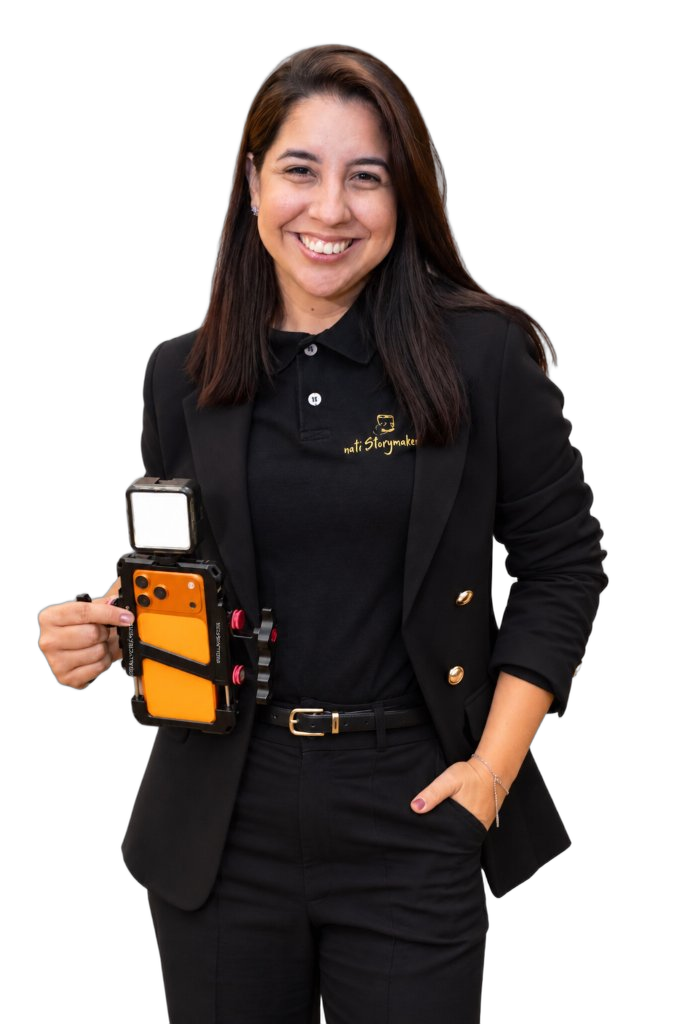
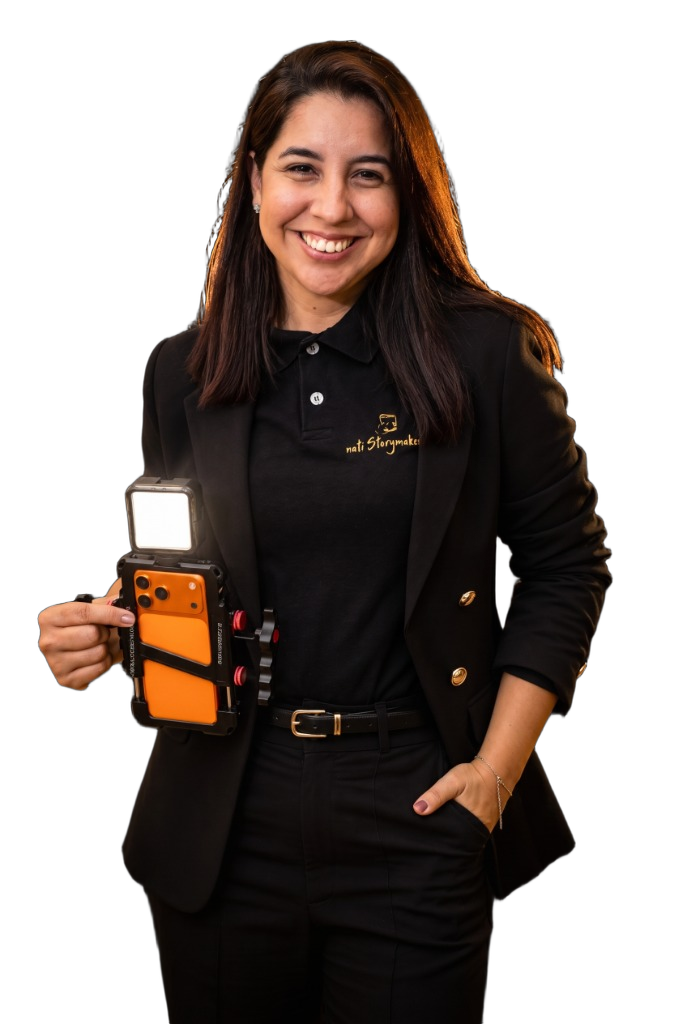
fix: aplica nova foto com fundo transparente no Hero 'CONTEÚDO EM TEMPO REAL' e suaviza brilho

diff --git a/index.html b/index.html
@@ -65,7 +65,7 @@
 		}
 
 		/* ==========================================================================
-		   CANVAS DE BRILHOS E PARTÍCULAS DOURADAS
+		   CANVAS DE BRILHOS E PARTÍCULAS DOURADAS (SUAVE E DISCRETO)
 		   ========================================================================== */
 		#gold-sparkles-canvas {
 			position: fixed;
@@ -75,7 +75,7 @@
 			height: 100vh;
 			pointer-events: none;
 			z-index: 0;
-			opacity: 0.85;
+			opacity: 0.40;
 		}
 
 		/* ==========================================================================
@@ -209,30 +209,39 @@
 
 		.hero-photo-container {
 			position: relative;
-			max-width: 320px;
-			width: 78vw;
+			max-width: 290px;
+			width: 72vw;
+			max-height: 48vh;
+			display: flex;
+			align-items: center;
+			justify-content: center;
 			margin: 0 auto;
 		}
 
+		/* Halo de luz sutil e refinado (elimina o excesso de brilho para preservar o fundo escuro) */
 		.gold-halo {
 			position: absolute;
 			top: 50%;
 			left: 50%;
 			transform: translate(-50%, -50%);
-			width: 280px;
-			height: 320px;
-			background: radial-gradient(circle, rgba(212, 175, 55, 0.22) 0%, transparent 70%);
+			width: 260px;
+			height: 300px;
+			background: radial-gradient(circle, rgba(212, 175, 55, 0.05) 0%, transparent 70%);
 			filter: blur(40px);
 			z-index: -1;
 			pointer-events: none;
 		}
 
 		.natalia-cutout-img {
-			width: 100%;
+			width: auto;
+			max-width: 100%;
+			max-height: 46vh;
 			height: auto;
 			display: block;
 			user-select: none;
 			pointer-events: none;
+			mask-image: linear-gradient(to bottom, black 85%, transparent 100%);
+			-webkit-mask-image: linear-gradient(to bottom, black 85%, transparent 100%);
 		}
 
 		.hero-copy {
@@ -772,16 +781,16 @@
 			<!-- Grid dos Cards (Com Animação Lateral Bidirecional) -->
 			<div class="grid-square-cards">
 
-				<!-- ITEM 1: NATÁLIA STORYMAKER VIP -->
+				<!-- ITEM 1: FAMOSO 1 -->
 				<div class="card-gold-square slide-from-left" data-category="famosos">
 					<div class="card-media">
-						<span class="card-tag">STORYMAKER VIP</span>
-						<img src="images/portfolio/natalia_storymaker.jpg" alt="Natália Mariel - StoryMaker VIP" class="card-img" style="object-position: center 15%;" />
+						<span class="card-tag">VIP GALA</span>
+						<img src="images/portfolio/famoso1.jpg" alt="Red Carpet Premiere" class="card-img" />
 					</div>
 					<div class="card-content">
-						<span class="card-category">Celebridades & VIP</span>
-						<h3 class="card-name">Cobertura VIP em Tempo Real</h3>
-						<p class="card-desc">Captação dinâmica, olhar refinado e entrega imediata de Stories e Reels de altíssimo padrão.</p>
+						<span class="card-category">Celebridades</span>
+						<h3 class="card-name">Red Carpet Premiere</h3>
+						<p class="card-desc">Cobertura de chegadas e bastidores dinâmicos no tapete vermelho em formato Reels.</p>
 						<div class="card-footer">
 							<span>FORMATO: 9:16</span>
 							<a href="https://wa.me/5585997827142" target="_blank" class="card-link">SOLICITAR <i class="fas fa-arrow-right"></i></a>
